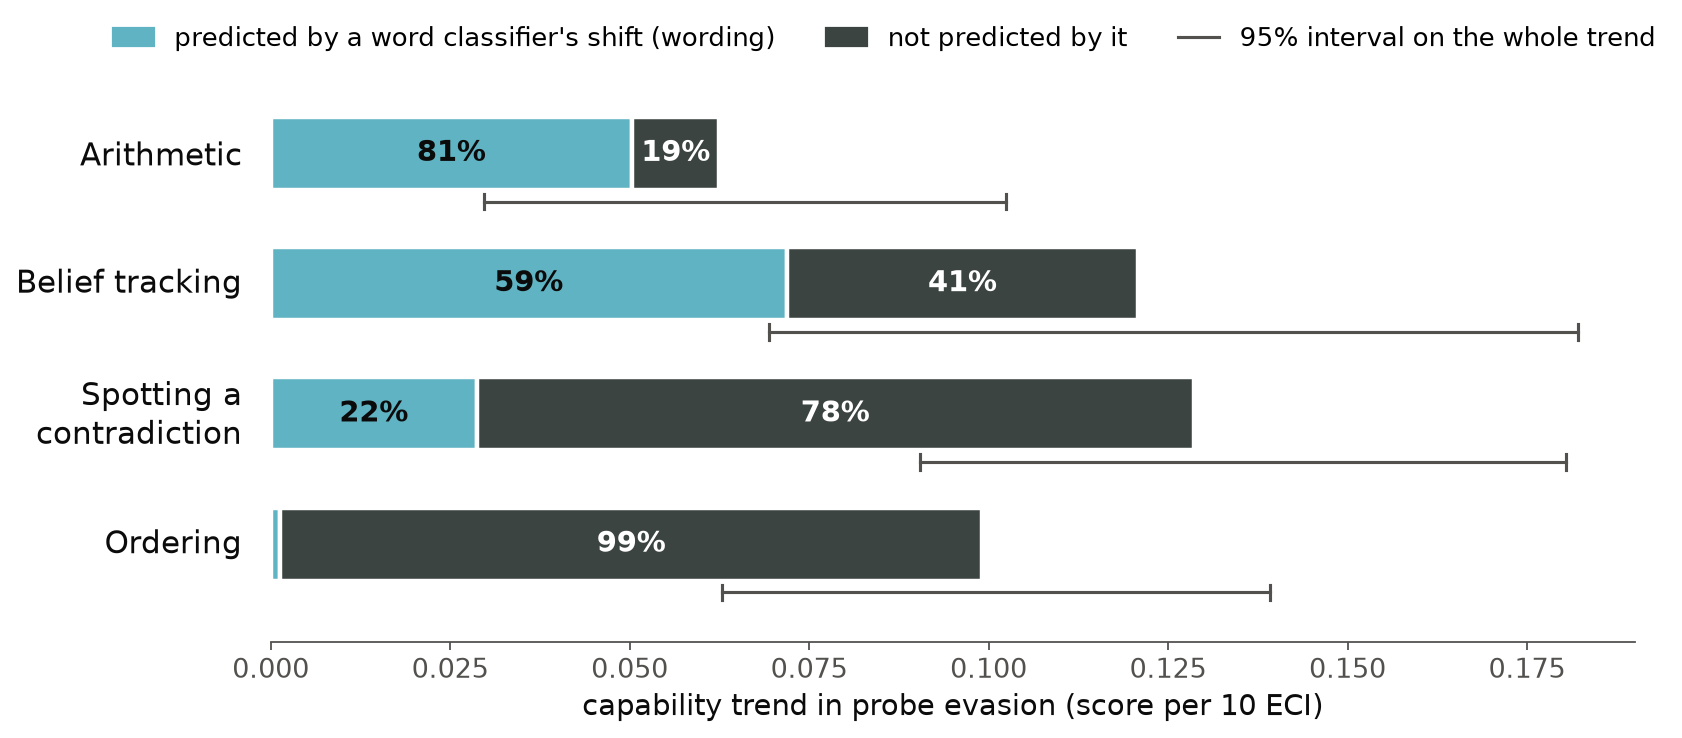
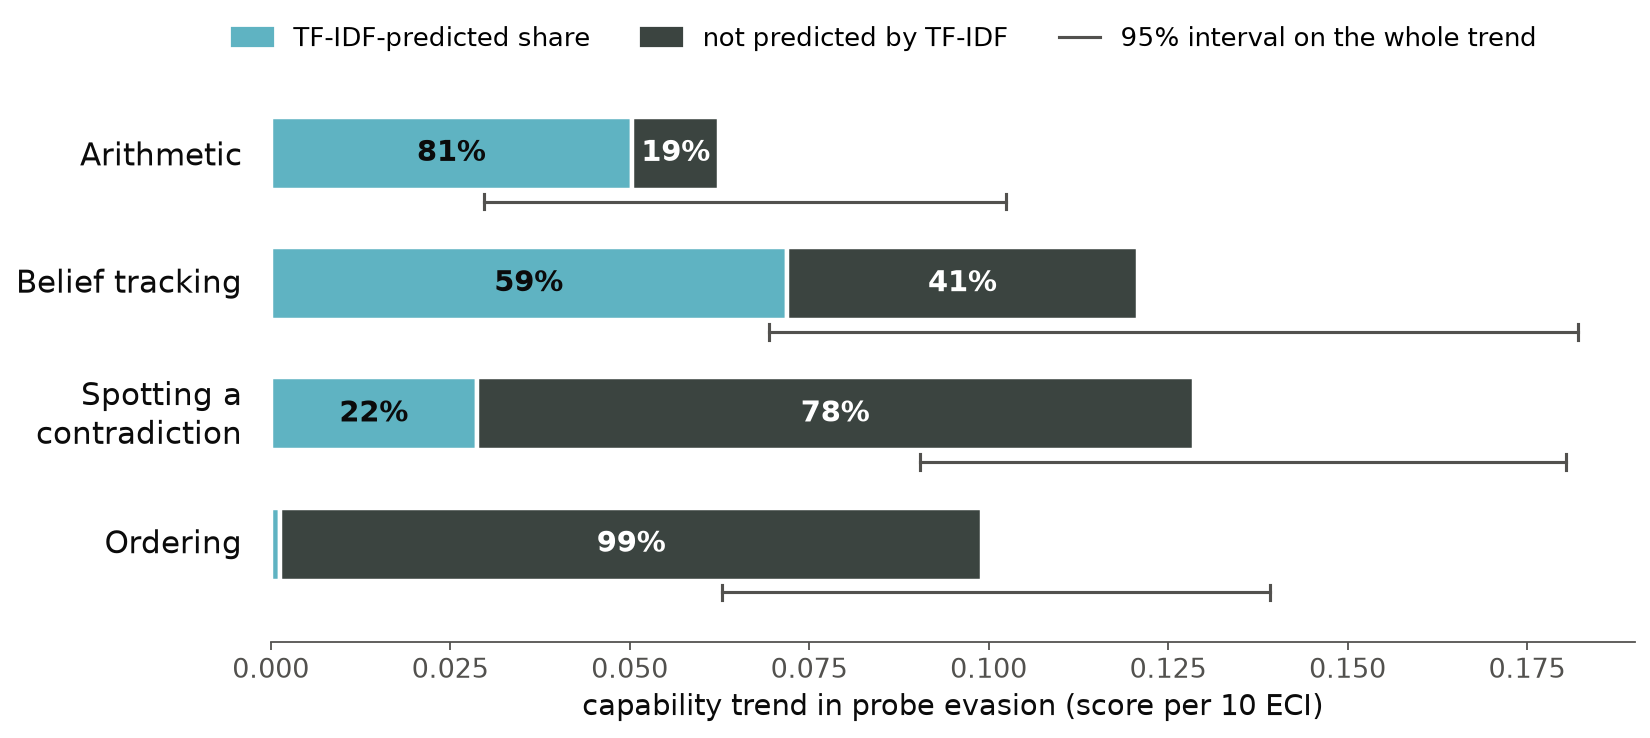
Wording-share figures: label the share 'TF-IDF-predicted share'

diff --git a/analysis/post_v9/fig_wording.py b/analysis/post_v9/fig_wording.py
@@ -3,7 +3,7 @@
 trend exactly; numbers/wording_share.py). Whisker: 95% interval on the whole trend. Clean style as fig_method.py.
 
 Also figures/wording_share_pct.png: every bar the same length (100% of its task's trend), so only the split shows,
-with the bootstrap 95% interval on the wording share drawn across the boundary (clipped to 0-100%).
+with the bootstrap 95% interval on the TF-IDF-predicted share drawn across the boundary (clipped to 0-100%).
 
     .venv/bin/python analysis/post_v9/fig_wording.py   # writes figures/wording_share.png and figures/wording_share_pct.png
 """
@@ -26,8 +26,8 @@ BAR_H = 0.56
 
 
 def legend(ax, interval_label: str) -> None:
-    handles = [plt.Rectangle((0, 0), 1, 1, color=WORDING, label="predicted by a word classifier's shift (wording)"),
-               plt.Rectangle((0, 0), 1, 1, color=REST, label="not predicted by it"),
+    handles = [plt.Rectangle((0, 0), 1, 1, color=WORDING, label="TF-IDF-predicted share"),
+               plt.Rectangle((0, 0), 1, 1, color=REST, label="not predicted by TF-IDF"),
                plt.Line2D([], [], color=METHOD.MUTED, lw=1.4, label=interval_label)]
     ax.legend(handles=handles, loc="lower center", bbox_to_anchor=(0.45, 1.0), ncol=3, frameon=False, fontsize=11.5, handlelength=1.6)
 
@@ -57,7 +57,7 @@ def shares_figure() -> None:
     ax.tick_params(axis="x", labelsize=12)
     for side in ("top", "right", "left"):
         ax.spines[side].set_visible(False)
-    legend(ax, "95% interval on the wording share")
+    legend(ax, "95% interval on the TF-IDF-predicted share")
     fig.savefig(HERE / "figures" / "wording_share_pct.png", dpi=160, bbox_inches="tight", facecolor="white")
     plt.close(fig)
 
